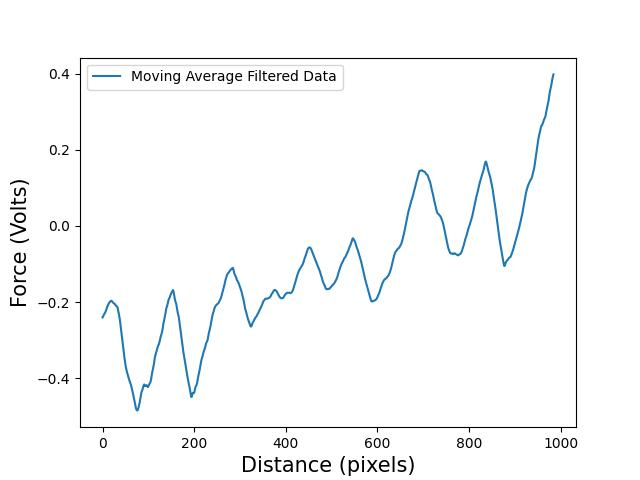
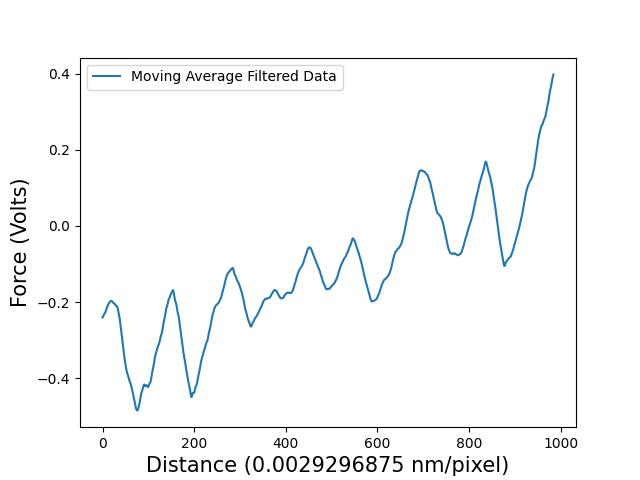
Made it so that an output file is printed

Changed region(s): [[0.2188, 0.9375, 0.7812, 1.0]]

diff --git a/run.py b/run.py
@@ -11,12 +11,10 @@ import warnings
 # fit gaussian
 # write how many peaks / centers
 # combine all graphs
-# blow up slopes
-# look at calibrated stuff
+
 # Penny Next Step:
 # Make it so that it prints out batches with file name in front
 # Try on other set of Penny data, see what happens
-# Distance: entire length is 4nm, do 0.00390625nm per pixel
 # Print out the average slip width and double slip width
 # Basically, print out the stats in a file in a readable fashion
 # Slips would be 0.25nm - 0.35nm
@@ -74,7 +72,7 @@ def find_csv_line_peaks(x, type, xlabel, ylabel, printout=False):
     return points
 
 
-def start(file_name, printout_status=False):
+def start(file_name, width_in_nm, printout_status=False):
 
     warnings.filterwarnings("ignore")
 
@@ -101,7 +99,9 @@ def start(file_name, printout_status=False):
     fourier_widths_array = []
     fourier_slopes_array = []
 
-    xlabel = "Distance (pixels)"
+    nm_per_pixel = width_in_nm / len(csv_array[0])
+
+    xlabel = "Distance (" + str(nm_per_pixel) + " nm/pixel)"
     ylabel = "Force (Volts)"
     fontsize = 15
 
@@ -244,7 +244,7 @@ def start(file_name, printout_status=False):
         for value in fourier_iter_slopes_array:
             fourier_slopes_array.append(value)
 
-    width_label = "Width (pixels)"
+    width_label = "Width (" + str(nm_per_pixel) + " nm/pixel)"
     steps_label = "Step (Volts)"
     slopes_label = "Slope (nN/nm)"
 
@@ -254,74 +254,86 @@ def start(file_name, printout_status=False):
             file_name + "Moving Average Widths",
             width_label,
             "Count of Widths",
-            fontsize),
+            fontsize,
+            nm_per_pixel),
         "Moving Average Steps Peaks": signal_cleanup.histogram(
             moving_average_steps_array,
             file_name + "Moving Average Steps",
             steps_label,
             "Count of Steps",
-            fontsize),
+            fontsize,
+            nm_per_pixel),
         "Moving Average Slopes Peaks": signal_cleanup.histogram(
             moving_average_slopes_array,
             file_name + "Moving Average Slopes",
             slopes_label,
             "Count of Slopes",
-            fontsize),
+            fontsize,
+            nm_per_pixel),
 
         "Geometric Moving Average Widths Peaks": signal_cleanup.histogram(
             geometric_moving_average_widths_array,
             file_name + "Geometric Moving Average Widths",
             width_label,
             "Count of Widths",
-            fontsize),
+            fontsize,
+            nm_per_pixel),
         "Geometric Moving Average Steps Peaks": signal_cleanup.histogram(
             geometric_moving_average_steps_array,
             file_name + " Geometric Moving Average Steps",
             steps_label,
             "Count of Steps",
-            fontsize),
+            fontsize,
+            nm_per_pixel),
         "Geometric Moving Average Slopes Peaks": signal_cleanup.histogram(
             geometric_moving_average_slopes_array,
             file_name + " Geometric Moving Average Slopes",
             slopes_label,
             "Count of Slopes",
-            fontsize),
+            fontsize,
+            nm_per_pixel),
 
         "Exponential Moving Average Widths Peaks": signal_cleanup.histogram(
             exponential_moving_average_widths_array,
             file_name + " Exponential Moving Average Widths",
             width_label,
             "Count of Widths",
-            fontsize),
+            fontsize,
+            nm_per_pixel),
         "Exponential Moving Average Steps Peaks": signal_cleanup.histogram(
             exponential_moving_average_steps_array,
             file_name + " Exponential Moving Average Steps",
             steps_label,
             "Count of Steps",
-            fontsize),
+            fontsize,
+            nm_per_pixel),
         "Exponential Moving Average Slopes Peaks": signal_cleanup.histogram(
             exponential_moving_average_slopes_array,
             file_name + " Exponential Moving Average Slopes",
             slopes_label,
             "Count of Slopes",
-            fontsize),
+            fontsize,
+            nm_per_pixel),
 
         "Fourier Widths Peaks": signal_cleanup.histogram(
             fourier_widths_array,
             file_name + " Fourier Widths",
             width_label,
             "Count of Widths",
-            fontsize),
+            fontsize,
+            nm_per_pixel),
         "Fourier Steps Peaks": signal_cleanup.histogram(
             fourier_steps_array,
             file_name + " Fourier Steps",
             steps_label,
             "Count of Steps",
-            fontsize),
+            fontsize,
+            nm_per_pixel),
         "Fourier Slopes Peaks": signal_cleanup.histogram(
             fourier_slopes_array,
             file_name + " Fourier Slopes",
             slopes_label,
             "Count of Slopes",
-            fontsize)
+            fontsize,
+            nm_per_pixel)
             }

diff --git a/signal_cleanup.py b/signal_cleanup.py
@@ -111,7 +111,7 @@ def into_slopes(dictionary):
     return slopes_array
 
 
-def histogram(x, plot_name, x_axis_name, y_axis_name, fontsize, low_threshold=0.0, high_threshold=10000.0):
+def histogram(x, plot_name, x_axis_name, y_axis_name, fontsize, nm_per_pixel, low_threshold=0.0, high_threshold=10000.0):
     thresholded_x = []
     for value in x:
         if high_threshold >= value >= low_threshold:
@@ -142,7 +142,15 @@ def histogram(x, plot_name, x_axis_name, y_axis_name, fontsize, low_threshold=0.
     plt.savefig(plot_name + ".jpg")
     plt.close()
 
-    return [peak_plot_x, n[peaks]]
+    return_array = [peak_plot_x, n[peaks]]
+    return_array_2 = []
+
+    for count in range(0, len(return_array[0])):
+        # print()
+        # print("Count " + str(count))
+        return_array_2.append([return_array[0][count], return_array[1][count] * nm_per_pixel])
+
+    return return_array_2
 
 def fourier_clean(x):
 

diff --git a/print_results.py b/print_results.py
@@ -1,0 +1,22 @@
+def print_results(results, filename):
+    f = open(filename[:-4] + "_results.txt", "w")
+    f.write(filename + " Results")
+    f.write("\n")
+    f.write("\n")
+
+    types = ["Moving Average", "Geometric Moving Average", "Exponential Moving Average", "Fourier"]
+    data = ["Widths", "Steps", "Slopes"]
+
+    for type in types:
+        f.write(type)
+        f.write("\n")
+        for set in data:
+            f.write(set + ": ")
+            f.write("\n")
+            for result in results[type + " " + set + " Peaks"]:
+                f.write("\t- (" + str(result[0]) + ", " + str(result[1]) + ")")
+                f.write("\n")
+            f.write("\n")
+            f.write("\n")
+
+    f.close()

diff --git a/main.py b/main.py
@@ -1,4 +1,6 @@
 from run import start
+from print_results import print_results
 
 if __name__ == '__main__':
-    print(start("file.csv", printout_status=True))
+    filename = "file.csv"
+    print_results(start(filename, 3, printout_status=True), filename)
